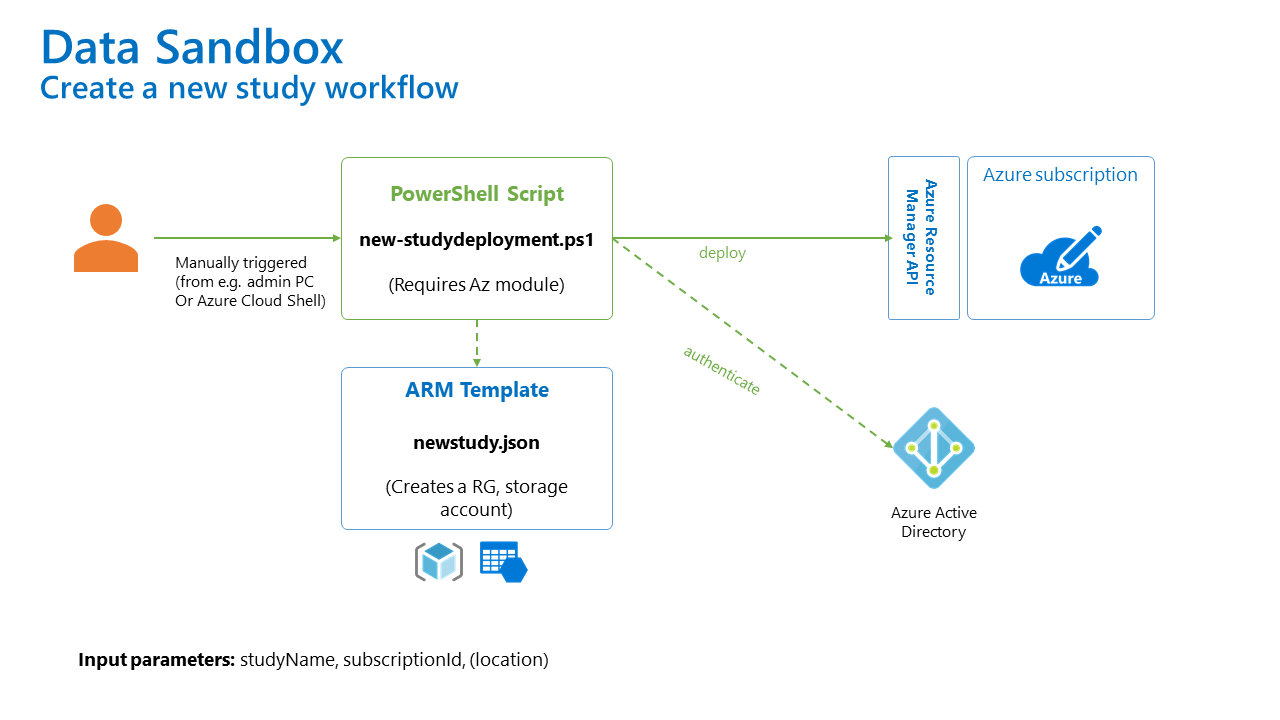
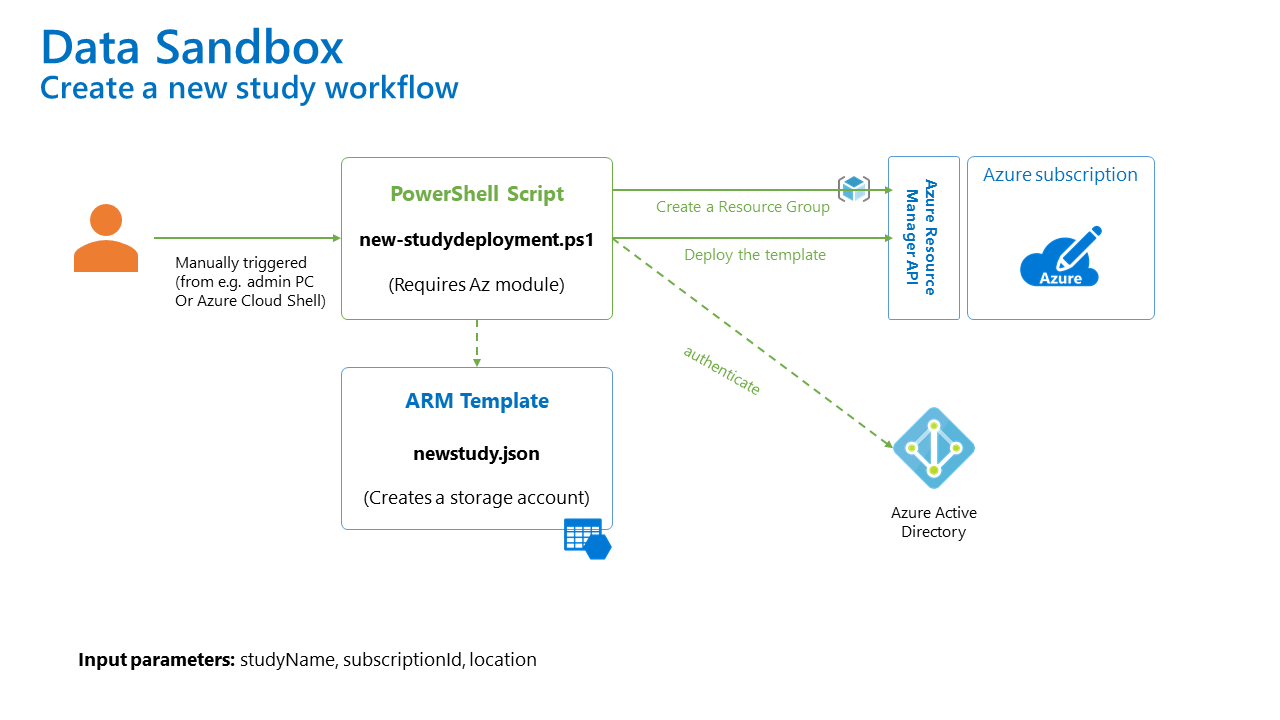
Updated designdocs to reflect deployment change.

diff --git a/designdocs/create_study_workflow.md b/designdocs/create_study_workflow.md
@@ -6,7 +6,6 @@ This workflow will create a new study in Azure.
 
 This is how it works:
 
-- An administrator (who has necessary permissions to create a study, i.e. Owner role on subscription level) will execute a `new-studydeployment.ps1` script from their PC (or Azure Cloud Shell)
-- Input parameters are: `studyName`, `subscriptionId`, and `location`
-- After authenticating against Azure AD, the script will deploy a template (`newstudy.json`) that will provision two resources: a resource group and a storage account (that will be shared among studies)
-  
+- An administrator (who has necessary permissions to create a study, i.e. Owner role on the subscription level) will execute a `new-studydeployment.ps1` script from their PC (or Azure Cloud Shell)
+- Mandatory input parameters are: `studyName`, `subscriptionId`, and `location`
+- After authenticating against Azure AD, the script will create a new Resource Group and deploy a template (`newstudy.json`) that will provision a storage account (that will be shared among studies)
